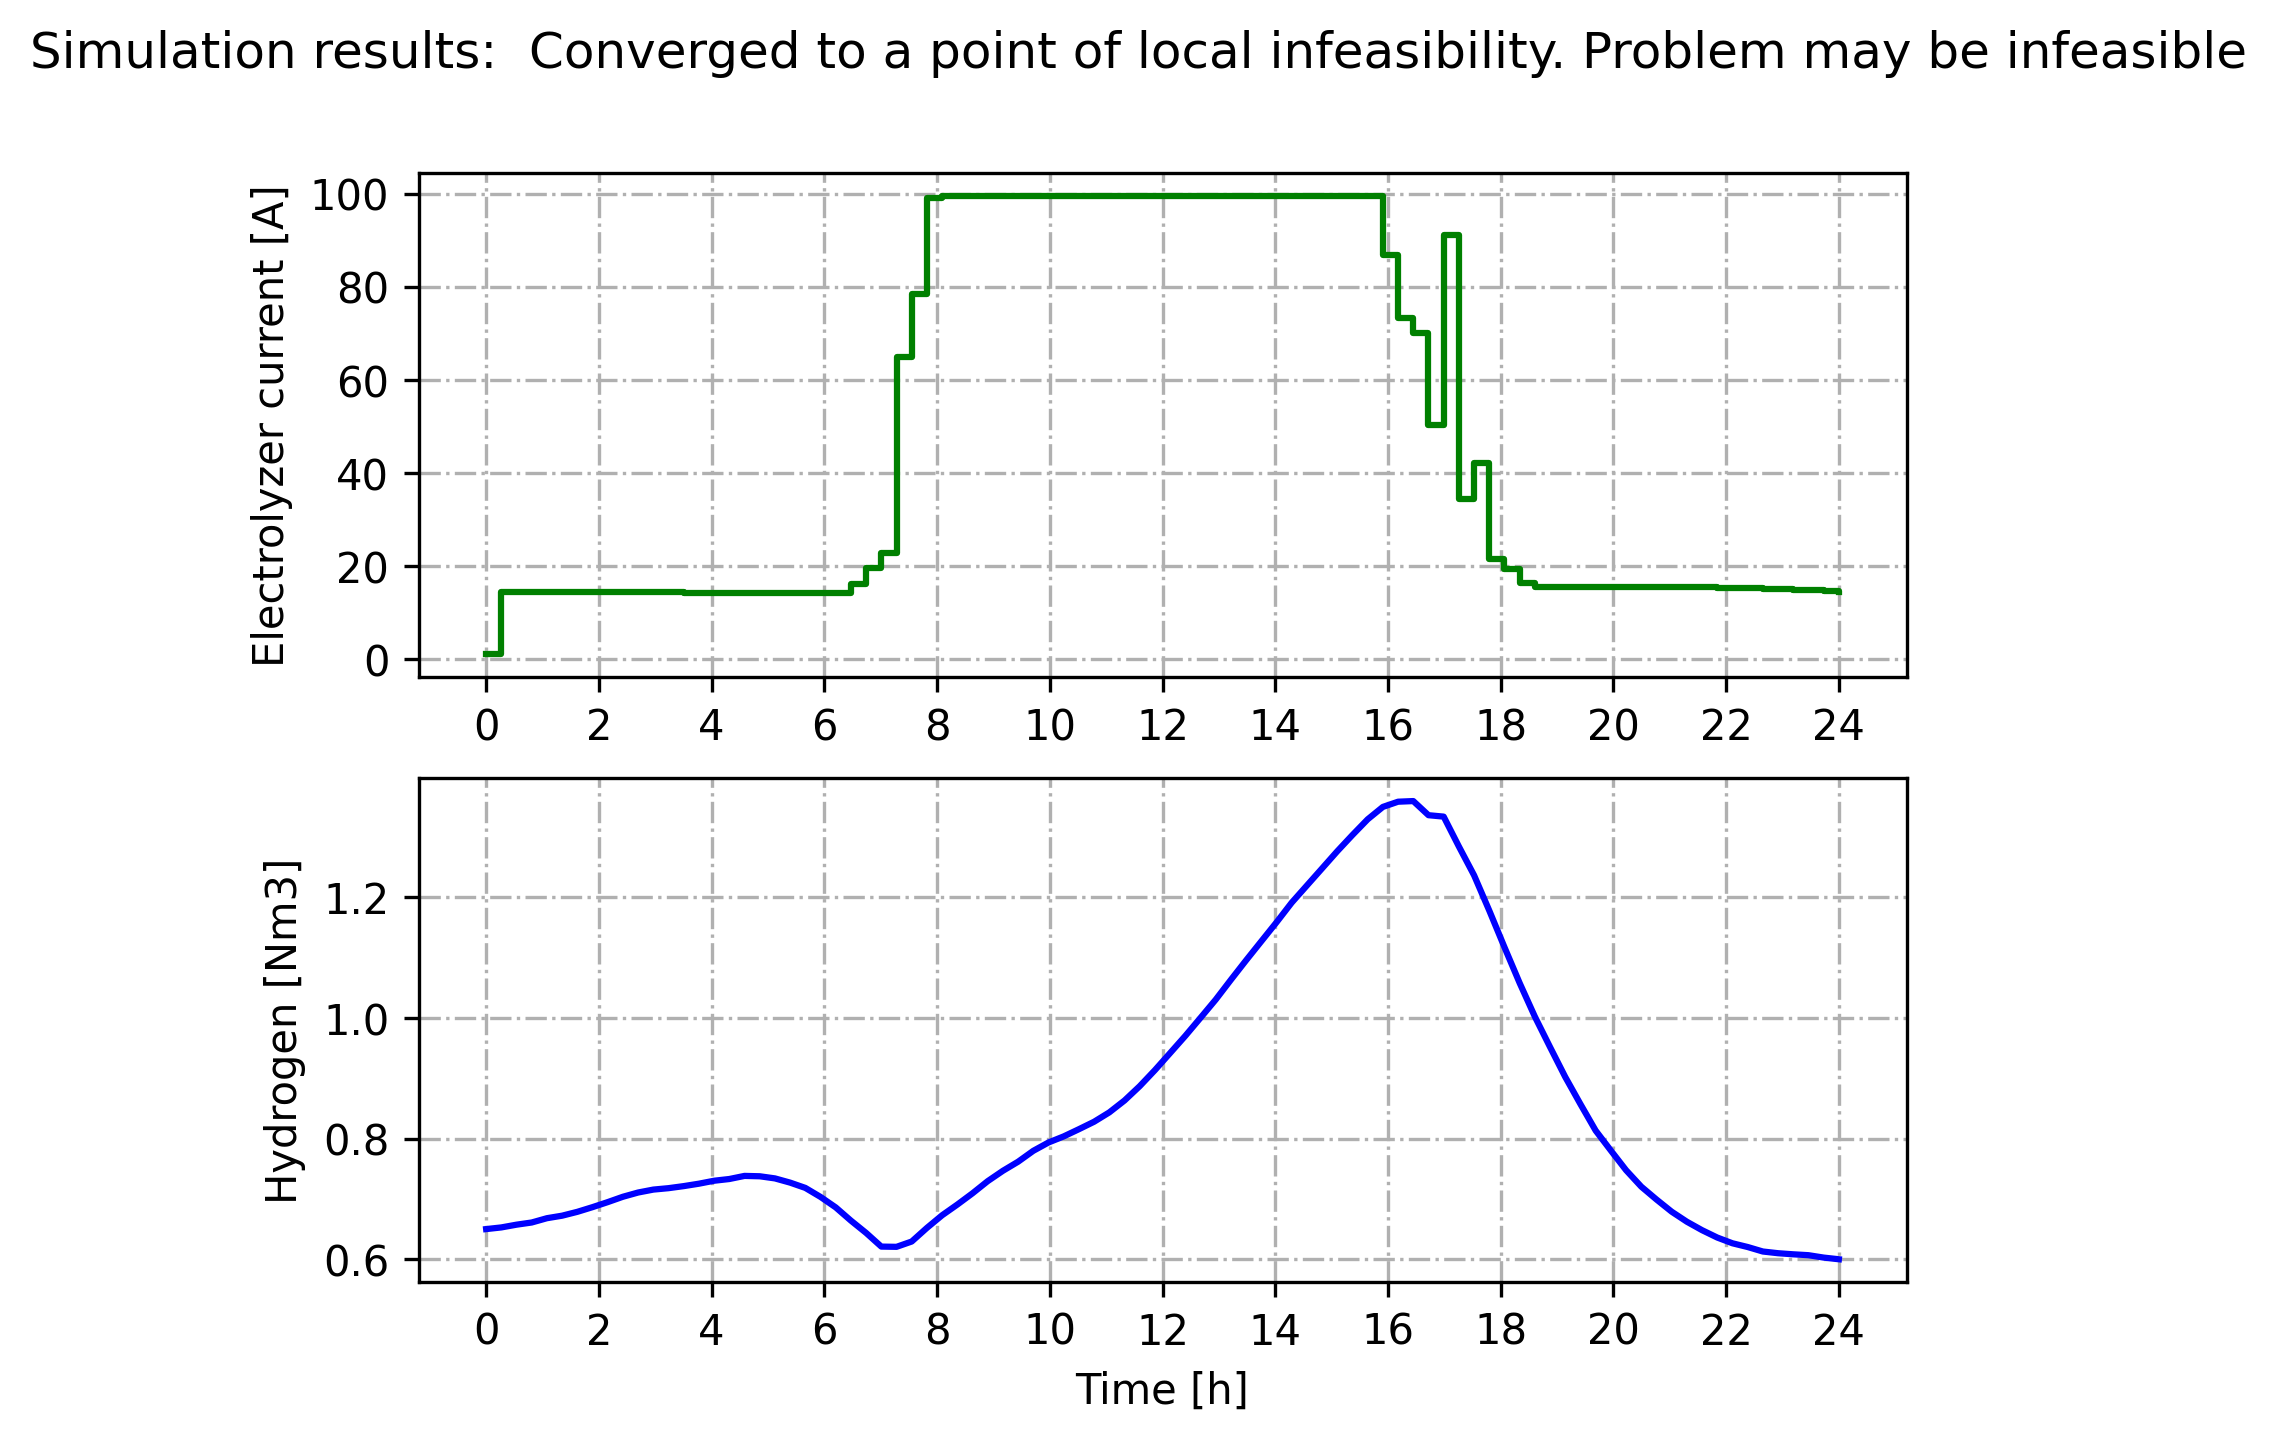
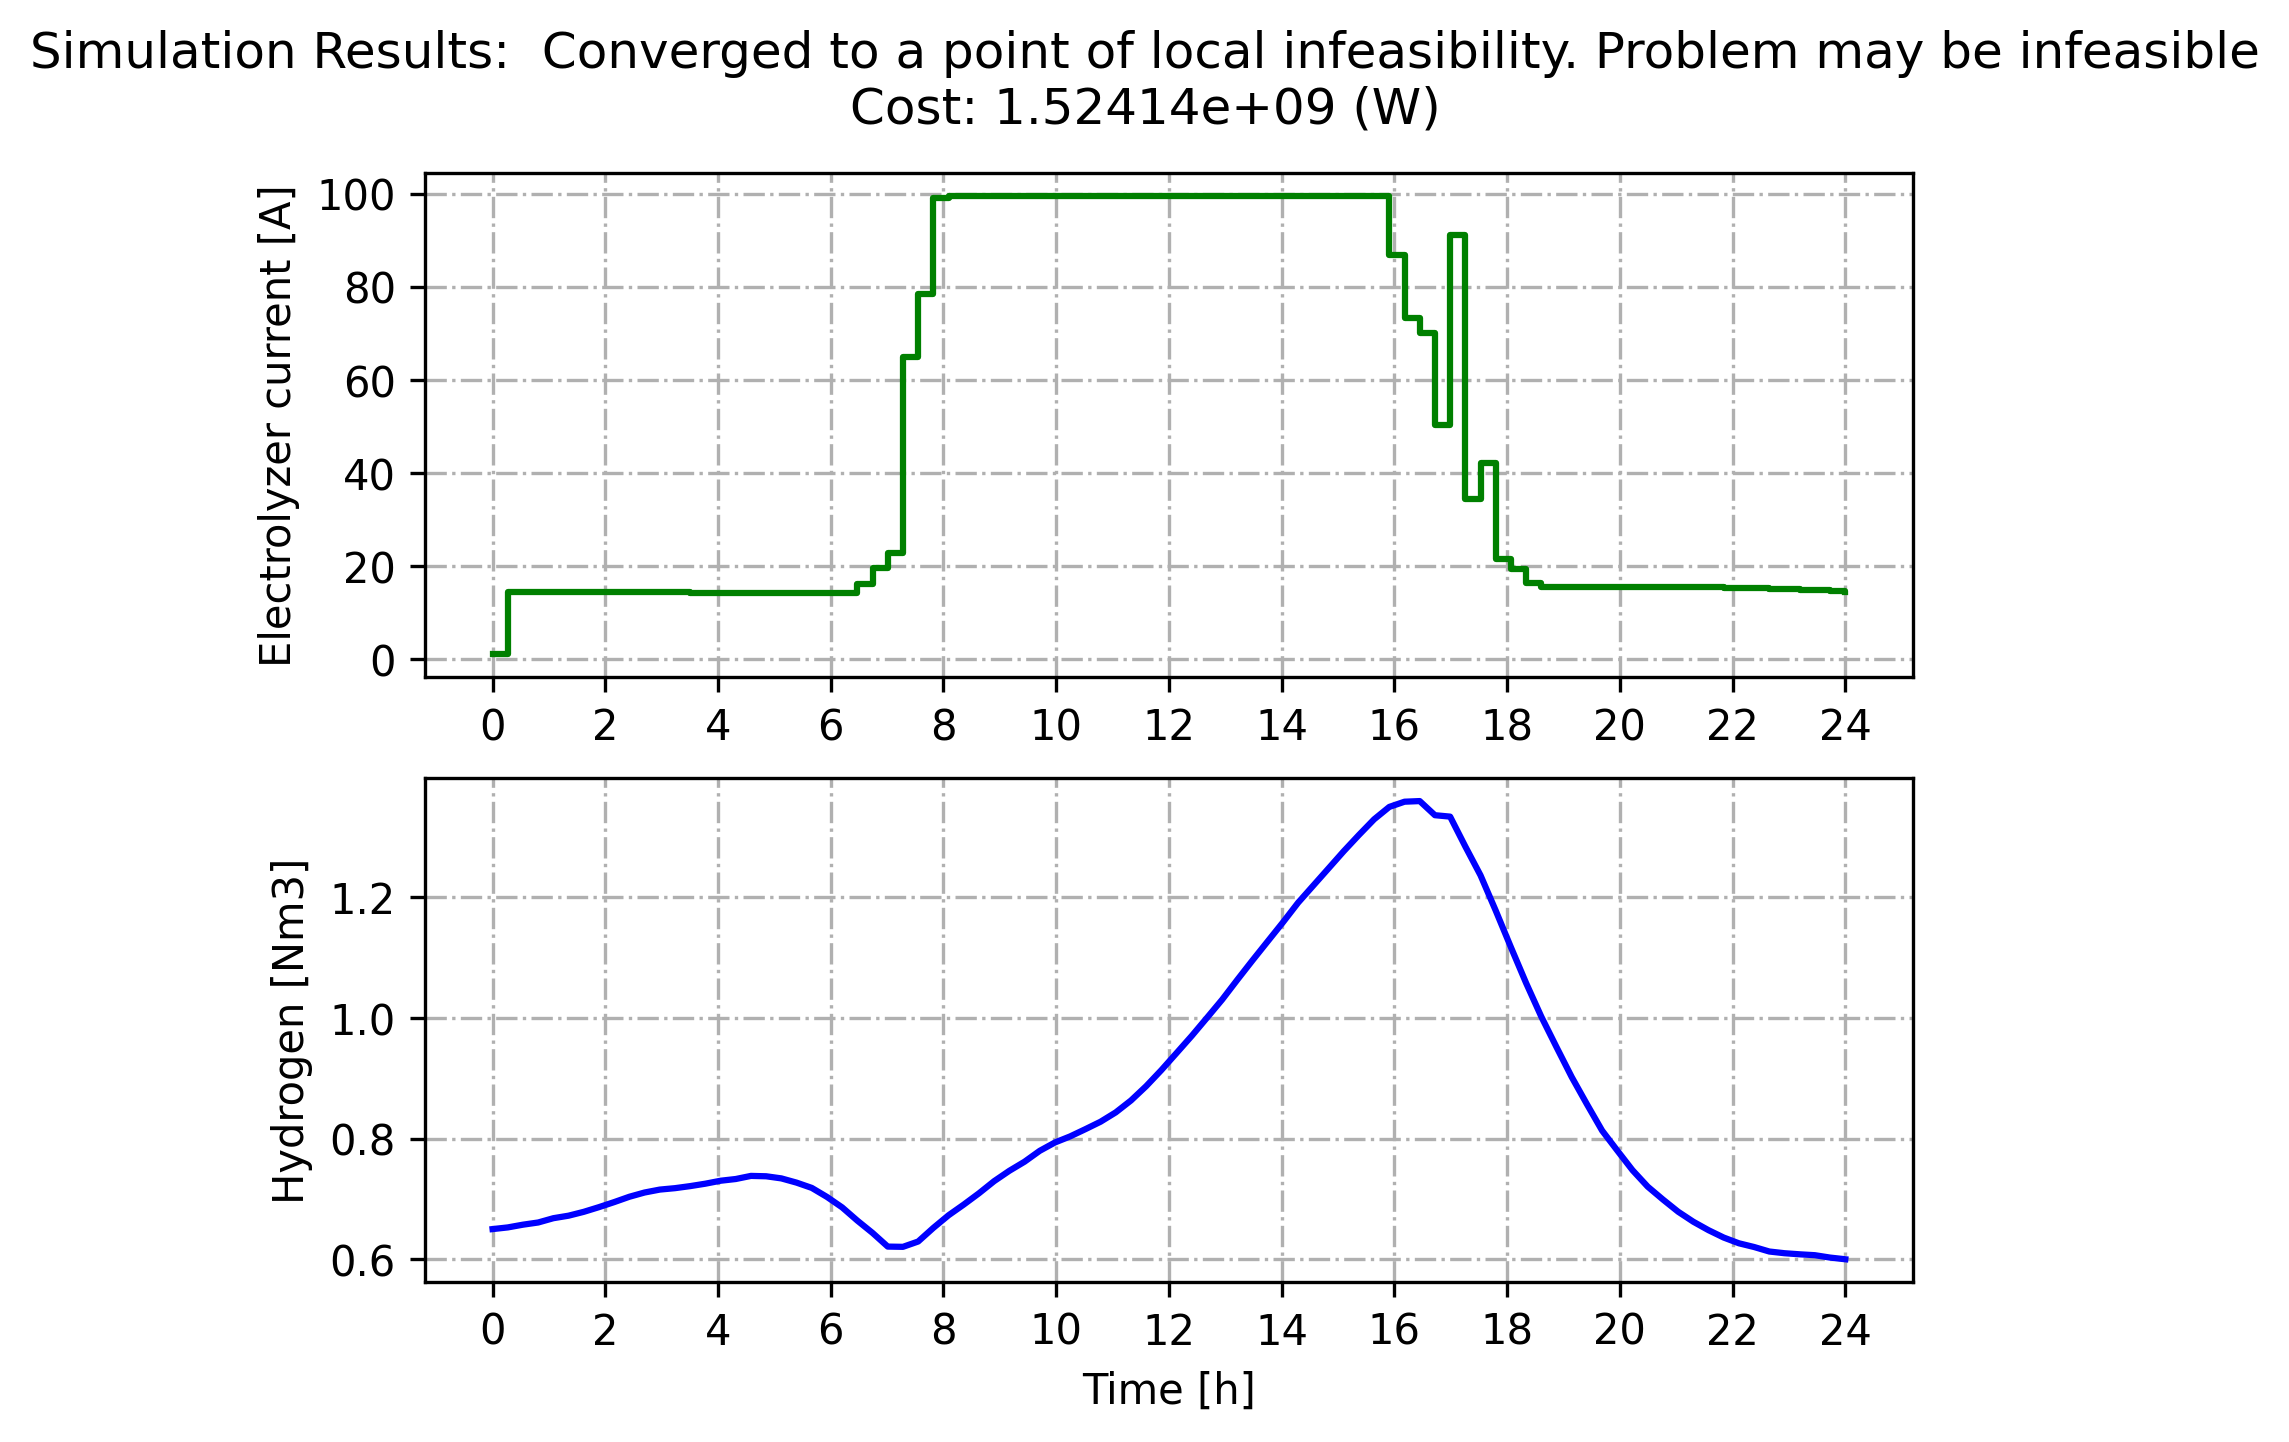
Add the cost in plot result

diff --git a/ocp-1-multiple-shooting.py b/ocp-1-multiple-shooting.py
@@ -122,7 +122,7 @@ optimzation_status = files.get_optimization_status(ipopt_log_file)
 # Plot results
 ts = np.linspace(0, Tf/60, N)
 fig, axs = plt.subplots(2,1)
-fig.suptitle('Simulation results: ' + optimzation_status)
+fig.suptitle('Simulation Results: ' + optimzation_status + '\nCost: ' + str(sol['f']) + ' (W)')
 
 axs[0].step(ts, i_el_opt, 'g-', where ='post')
 axs[0].set_ylabel('Electrolyzer current [A]')

diff --git a/ocp-2-multiple-shooting.py b/ocp-2-multiple-shooting.py
@@ -132,7 +132,7 @@ optimzation_status = files.get_optimization_status(ipopt_log_file)
 # Plot results
 ts = np.linspace(0, Tf/60, N)
 fig, axs = plt.subplots(2,1)
-fig.suptitle('Simulation results: ' + optimzation_status)
+fig.suptitle('Simulation Results: ' + optimzation_status + '\nCost: ' + str(sol['f']) + ' (W)')
 
 axs[0].step(ts, i_c, 'g-', where ='post')
 axs[0].set_ylabel('Electrolyzer current [A]')

diff --git a/ocp-2-single-shooting.py b/ocp-2-single-shooting.py
@@ -128,7 +128,7 @@ optimzation_status = files.get_optimization_status(ipopt_log_file)
 # Plot results
 ts = np.linspace(0, Tf/60, N)
 fig, axs = plt.subplots(2,1)
-fig.suptitle('Simulation results: ' + optimzation_status)
+fig.suptitle('Simulation Results: ' + optimzation_status + '\nCost: ' + str(sol['f']) + ' (W)')
 
 axs[0].step(ts, i_c, 'g-', where ='post')
 axs[0].set_ylabel('Electrolyzer current [A]')

diff --git a/ocp-2-trapezoid-collocation.py b/ocp-2-trapezoid-collocation.py
@@ -133,7 +133,7 @@ f_u_opt = interpolate.interp1d(t, i_el_opt, kind='linear')
 t_new = np.arange(0, 24, 0.1)
 
 fig, axs = plt.subplots(2,1)
-fig.suptitle('Simulation Results: ' + optimzation_status)
+fig.suptitle('Simulation Results: ' + optimzation_status + '\nCost: ' + str(sol['f']) + ' (W)')
 
 axs[0].plot(t, i_el_opt, '.r', t_new, f_u_opt(t_new), '-b')
 axs[0].set_ylabel('Electrolyzer current [A]')

diff --git a/ocp-1-hs-collocation.py b/ocp-1-hs-collocation.py
@@ -134,7 +134,7 @@ f_u_opt = interpolate.interp1d(t, u_opt, kind='quadratic')
 t_new = np.arange(0, 24, 0.1)
 
 fig, axs = plt.subplots(2,1)
-fig.suptitle('Simulation Results: ' + optimzation_status)
+fig.suptitle('Simulation Results: ' + optimzation_status + '\nCost: ' + str(sol['f']) + ' (W)')
 
 axs[0].plot(t, *u_opt, '.r', t_new, *f_u_opt(t_new), '-b')
 axs[0].set_ylabel('Electrolyzer current [A]')

diff --git a/ocp-1-trapezoid-collocation.py b/ocp-1-trapezoid-collocation.py
@@ -128,7 +128,7 @@ f_u_opt = interpolate.interp1d(t, u_opt, kind='linear')
 t_new = np.arange(0, 24, 0.1)
 
 fig, axs = plt.subplots(2,1)
-fig.suptitle('Simulation Results: ' + optimzation_status)
+fig.suptitle('Simulation Results: ' + optimzation_status + '\nCost: ' + str(sol['f']) + ' (W)')
 
 axs[0].plot(t, *u_opt, '.r', t_new, *f_u_opt(t_new), '-b')
 axs[0].set_ylabel('Electrolyzer current [A]')

diff --git a/ocp-3-trapezoid-collocation.py b/ocp-3-trapezoid-collocation.py
@@ -134,7 +134,7 @@ f_u_opt = interpolate.interp1d(t, u_opt, kind='linear')
 t_new = np.arange(0, 24, 0.1)
 
 fig, axs = plt.subplots(2,1)
-fig.suptitle('Simulation Results: ' + optimzation_status)
+fig.suptitle('Simulation Results: ' + optimzation_status + '\nCost: ' + str(sol['f']) + ' (W)')
 
 axs[0].plot(t, *u_opt, '.r', t_new, *f_u_opt(t_new), '-b')
 axs[0].set_ylabel('Electrolyzer current [A]')

diff --git a/ocp-1-single-shooting.py b/ocp-1-single-shooting.py
@@ -120,7 +120,7 @@ optimzation_status = files.get_optimization_status(ipopt_log_file)
 
 # Plot results
 fig, axs = plt.subplots(2,1)
-fig.suptitle('Simulation results: ' + optimzation_status)
+fig.suptitle('Simulation Results: ' + optimzation_status + '\nCost: ' + str(sol['f']) + ' (W)')
 
 axs[0].step(ts, w_opt, 'g-', where ='post')
 axs[0].set_ylabel('Electrolyzer current [A]')
